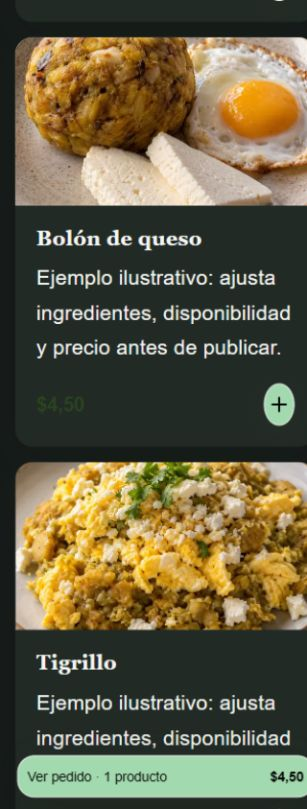
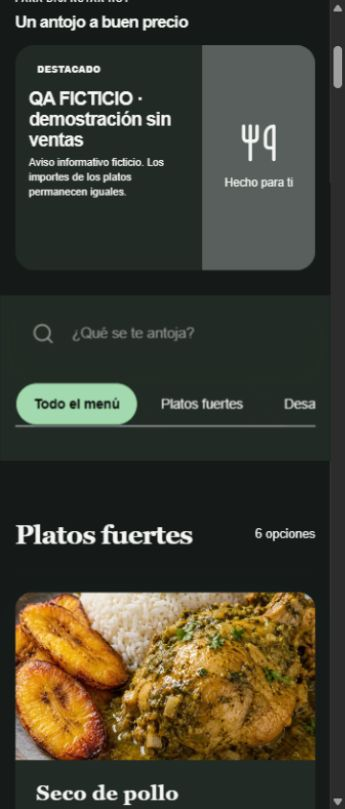
docs: record verified production deployment and acceptance evidence

diff --git a/docs/product-release-2026-10-08.md b/docs/product-release-2026-10-08.md
@@ -7,9 +7,9 @@ La implementación está integrada y desplegada en la infraestructura existente.
 - Repositorio íntegro: [eslay07/qr-menu-ec](https://github.com/eslay07/qr-menu-ec).
 - Funcionalidades integradas por [PR 16](https://github.com/eslay07/qr-menu-ec/pull/16), commit `04884f2400ed43a99bd494d73d94f26d04cb4d4c`.
 - Empaquetado y verificación MIME integrados por [PR 17](https://github.com/eslay07/qr-menu-ec/pull/17), commit `1c0ebf9f9180d85f80e9cadec4e7e7ad8e174931`.
-- Versión final preparada: `7580118f-8cd4-4c15-bb03-b56fc8b808ba`, con tráfico0 durante revisión. La versión funcional anterior93dbea4d se comprobó por HTTP y navegador; la activación y verificación de contraste productivo final se registrarán tras aprobar CI.
-- Plataforma: https://qr-menu-ec.consola.workers.dev . [Demostración pública comprobada](https://qa-ficticio-octubre-2026.consola.workers.dev/menu), publicación 8 al cierre de aceptación.
-- Corrección final de contraste y evidencias: [PR 18](https://github.com/eslay07/qr-menu-ec/pull/18); precios, opciones y mensajes de validación usan los roles aceptados. Nueve combinaciones de paleta/plantilla verificadas por colores computados, mínimo4,5:1.
+- Versión final activa: `7580118f-8cd4-4c15-bb03-b56fc8b808ba`, tráfico100%. Activada y comprobada por HTTP y navegador: HTML, JS y CSS coinciden por SHA-256 con los archivos construidos; estado privado anónimo401. Commit productivo `34558c0c7920c23fa1f2e78183f8f7f603104214` (PR18). Recibo versionado `served-version.json`.
+- Plataforma: https://qr-menu-ec.consola.workers.dev . [Demostración pública comprobada](https://qa-ficticio-octubre-2026.consola.workers.dev/menu), publicación 12 al cierre de aceptación.
+- Corrección final de contraste y evidencias: [PR 18](https://github.com/eslay07/qr-menu-ec/pull/18); precios, opciones y mensajes de validación usan los roles aceptados. Nueve combinaciones de paleta/plantilla verificadas por colores computados, mínimo4,5:1. En producción se comprobó la publicación9 oscura: texto/precios #F5F6F3 sobre #222A25, contraste13,58:1; las cinco capturas de tarjetas se repitieron en la publicación11 con esta corrección ya servida. Después se publicó la configuración neutra/lista12 y se verificaron nuevamente sus alias. En producción se comprobó la publicación9 oscura: texto/precios #F5F6F3 sobre #222A25, contraste13,58:1; las cinco capturas de tarjetas se repitieron en la publicación11 con esta corrección ya servida. Después se publicó la configuración neutra/lista12 y se verificaron nuevamente sus alias.
 - D1 operativa y D1 histórica/imágenes conservadas; migración aditiva `0006_order_operations.sql` aplicada. Firebase Authentication/FCM conservados. Sin Blaze, R2, nuevas suscripciones o proveedor contratado.
 
 ## Cambios
@@ -36,11 +36,11 @@ Cinco roles de color, HEX y contraste en cliente/servidor, tres paletas, restaur
 
 [Evidencias versionadas](evidence/2026-10-08/) incluyen recibos de idempotencia, publicación/alias/QR, precios, seguridad, sesiones y capturas. Las 15 capturas de anchos productivos completas están también en `outputs/product-production-{list,cards,compact}-<ancho>.jpg` del workspace.
 
-![Carta productiva ficticia](evidence/2026-10-08/product-production-list-390.jpg)
+![Carta productiva ficticia final](evidence/2026-10-08/product-production-final-390.jpg)
 
 ![Pedido ficticio registrado](evidence/2026-10-08/product-production-order.jpg)
 
-Tipos y build Worker aprobados. Suite completa con emulador: **168/168, cero fallos/omisiones**, más **2/2 tests de empaquetado MIME**. Reglas Firebase repetidas: 8/8. CI de los PR 16/17: build, auditoría/secretos, CodeQL y preview aprobados. Audit no tiene hallazgos altos/críticos. Smoke productivo aprobado: la automatización fue bloqueada por Turnstile, mientras el pedido anterior sí se creó en navegador mediante el flujo normal.
+Tipos y build Worker aprobados. Suite completa con emulador: **168/168, cero fallos/omisiones**, más **2/2 tests de empaquetado MIME**. Reglas Firebase repetidas: 8/8. CI de los PR 16/17/18: build, auditoría/secretos, CodeQL y preview aprobados. Audit no tiene hallazgos altos/críticos. Smoke productivo aprobado: la automatización fue bloqueada por Turnstile, mientras el pedido anterior sí se creó en navegador mediante el flujo normal.
 
 **Lint no aprobado**: comparativa completa registrada 420 errores/5 avisos previos y 450/5 en la entrega funcional; incluye deuda previa y hallazgos nuevos. No se desactivaron reglas ni aserciones. Los archivos nuevos de instrumentación visual pasaron lint. Logs locales bajo `outputs/`, especialmente `product-all-emulator.txt`, `product-production-smoke-final.txt`, `product-typecheck-evidence.txt` y `lint-product-release-final.txt`.
 
@@ -52,7 +52,7 @@ LCP frío antes/después: 10 productos **1,724→1,740 s**, 40 **2,020→2,064 s
 
 ## Subdominio, QR y operación
 
-El hostname `qa-ficticio-octubre-2026.consola.workers.dev` es **un subdominio real**, provisionado en el namespace existente, con TLS y rutas 200 verificados. El [QR SVG](evidence/2026-10-08/product-public-qr.svg) se decodificó a su URL completa. `/m/qa-ficticio-octubre-2026/api/v1/menu`, `/r/76d3def9-52e9-4779-b048-1242f45c634e/api/v1/menu` y subdominio devolvieron la misma publicación 8. El evento de descarga del navegador integrado no fue observable; el SVG adjunto se extrajo del QR realmente visible, sin regenerarlo.
+El hostname `qa-ficticio-octubre-2026.consola.workers.dev` es **un subdominio real**, provisionado en el namespace existente, con TLS y rutas 200 verificados. El [QR SVG](evidence/2026-10-08/product-public-qr.svg) se decodificó a su URL completa. `/m/qa-ficticio-octubre-2026/api/v1/menu`, `/r/76d3def9-52e9-4779-b048-1242f45c634e/api/v1/menu` y subdominio devolvieron la misma publicación 12. El evento de descarga del navegador integrado no fue observable; el SVG adjunto se extrajo del QR realmente visible, sin regenerarlo.
 
 Turnstile incorporó el hostname ficticio reemplazando únicamente un preview histórico deshabilitado; conservó los hostnames productivos, identidad y protección. Recibo versionado. **Bloqueo de provisión automática futura:** el Worker no tiene `CLOUDFLARE_API_TOKEN` permanente con permisos mínimos de Workers; el operador pudo provisionar el ejemplo usando la autorización CLI existente. No se almacenó OAuth efímero como secreto. Además, nuevos hostnames necesitan autorización Turnstile dentro de sus cuotas. Las rutas legibles funcionan aunque ese acceso no esté configurado.
 

diff --git a/docs/acceptance-release-2026-10-07.md b/docs/acceptance-release-2026-10-07.md
@@ -39,4 +39,4 @@ Migración aditiva 0006 aplicada y comprobada en D1 histórica, sin modificar da
 Las carreras de publicación/pedido, revocación/refresh y entrega FCM quedaron corregidas y verificadas con pruebas independientes. El dueño ficticio inició sesión realmente; el Honor conectado abrió esa misma cuenta. Se creó el subdominio real de ensayo con TLS/ruta verificados. Pendiente comprobación completa de la versión productiva nueva. No afirmar producto listo para vender hasta completar recorridos productivos.
 ## Cierre productivo posterior
 
-El estado final autoritativo está en [product-release-2026-10-08.md](product-release-2026-10-08.md). Sustituye el estado pendiente/histórico anterior: versión7580118f preparada sin tráfico durante revisión, 168/168 tests con emulador más2/2 MIME y recorridos productivos ficticios comprobados. Declara por separado lint no aprobado, límites de rendimiento, zoom CSS y revisión Android incompleta.
+El estado final autoritativo está en [product-release-2026-10-08.md](product-release-2026-10-08.md). Sustituye el estado pendiente/histórico anterior: versión7580118f activa al100% y archivos servidos verificados, 168/168 tests con emulador más2/2 MIME y recorridos productivos ficticios comprobados. Declara por separado lint no aprobado, límites de rendimiento, zoom CSS y revisión Android incompleta.
